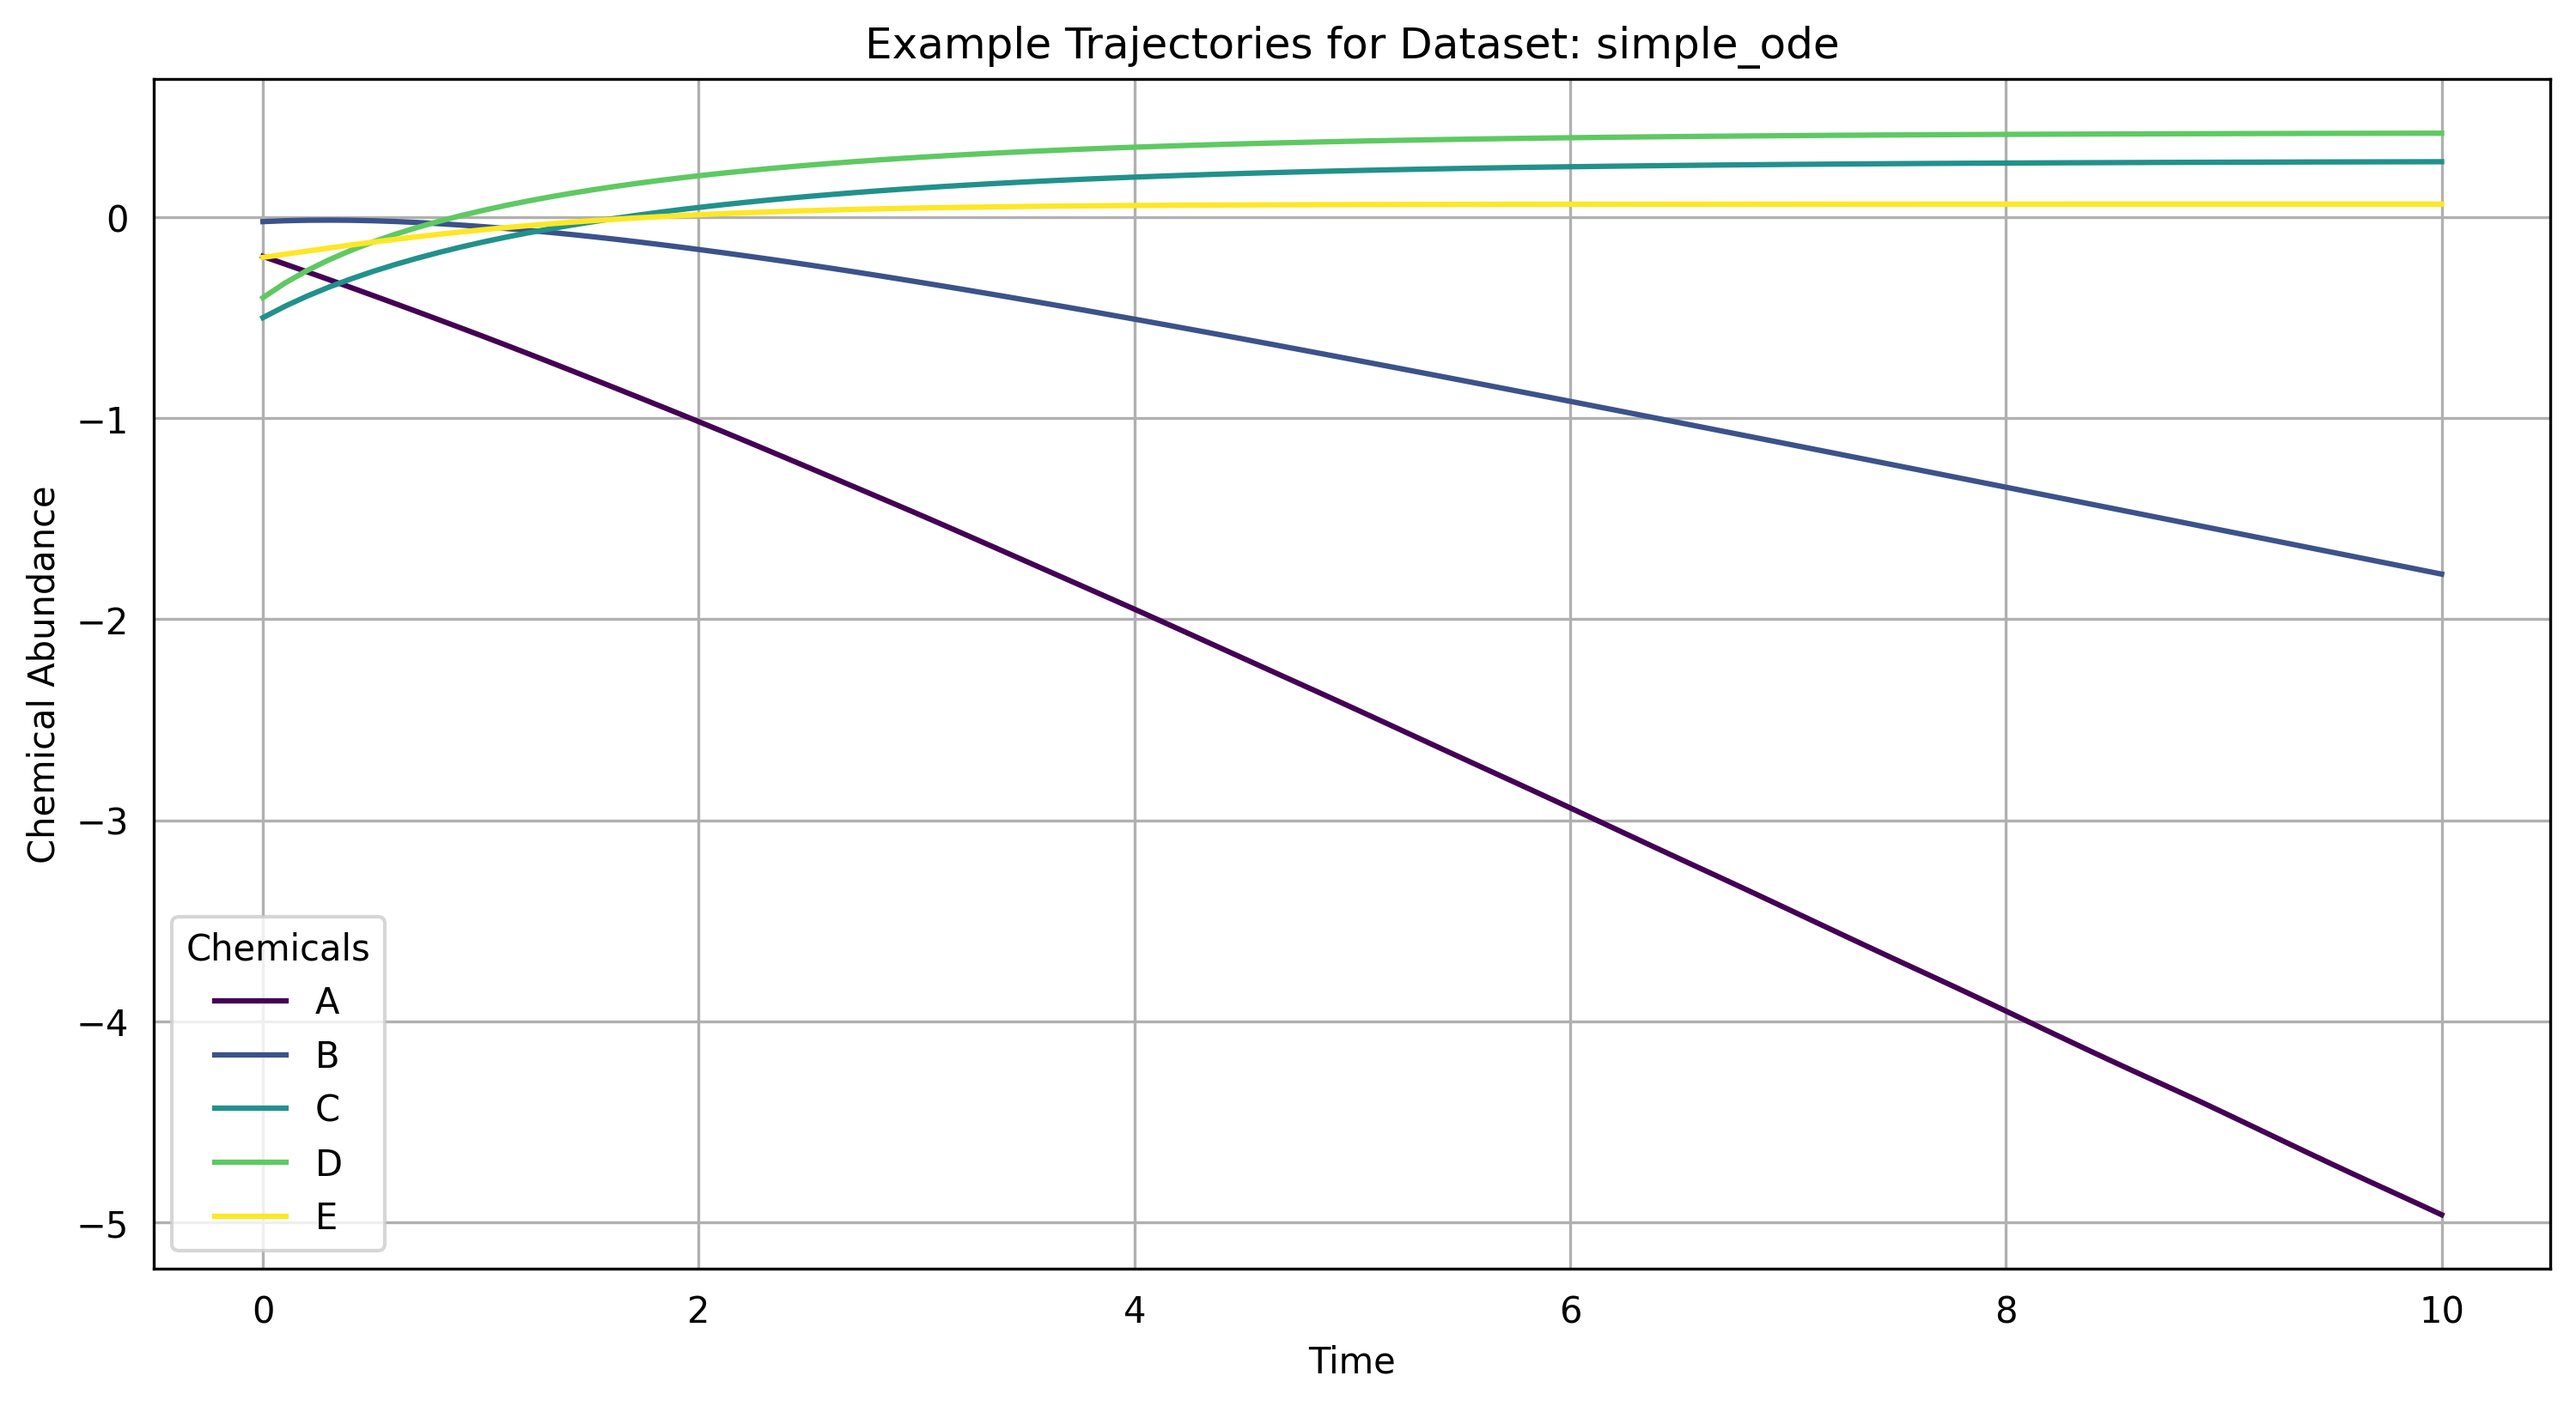
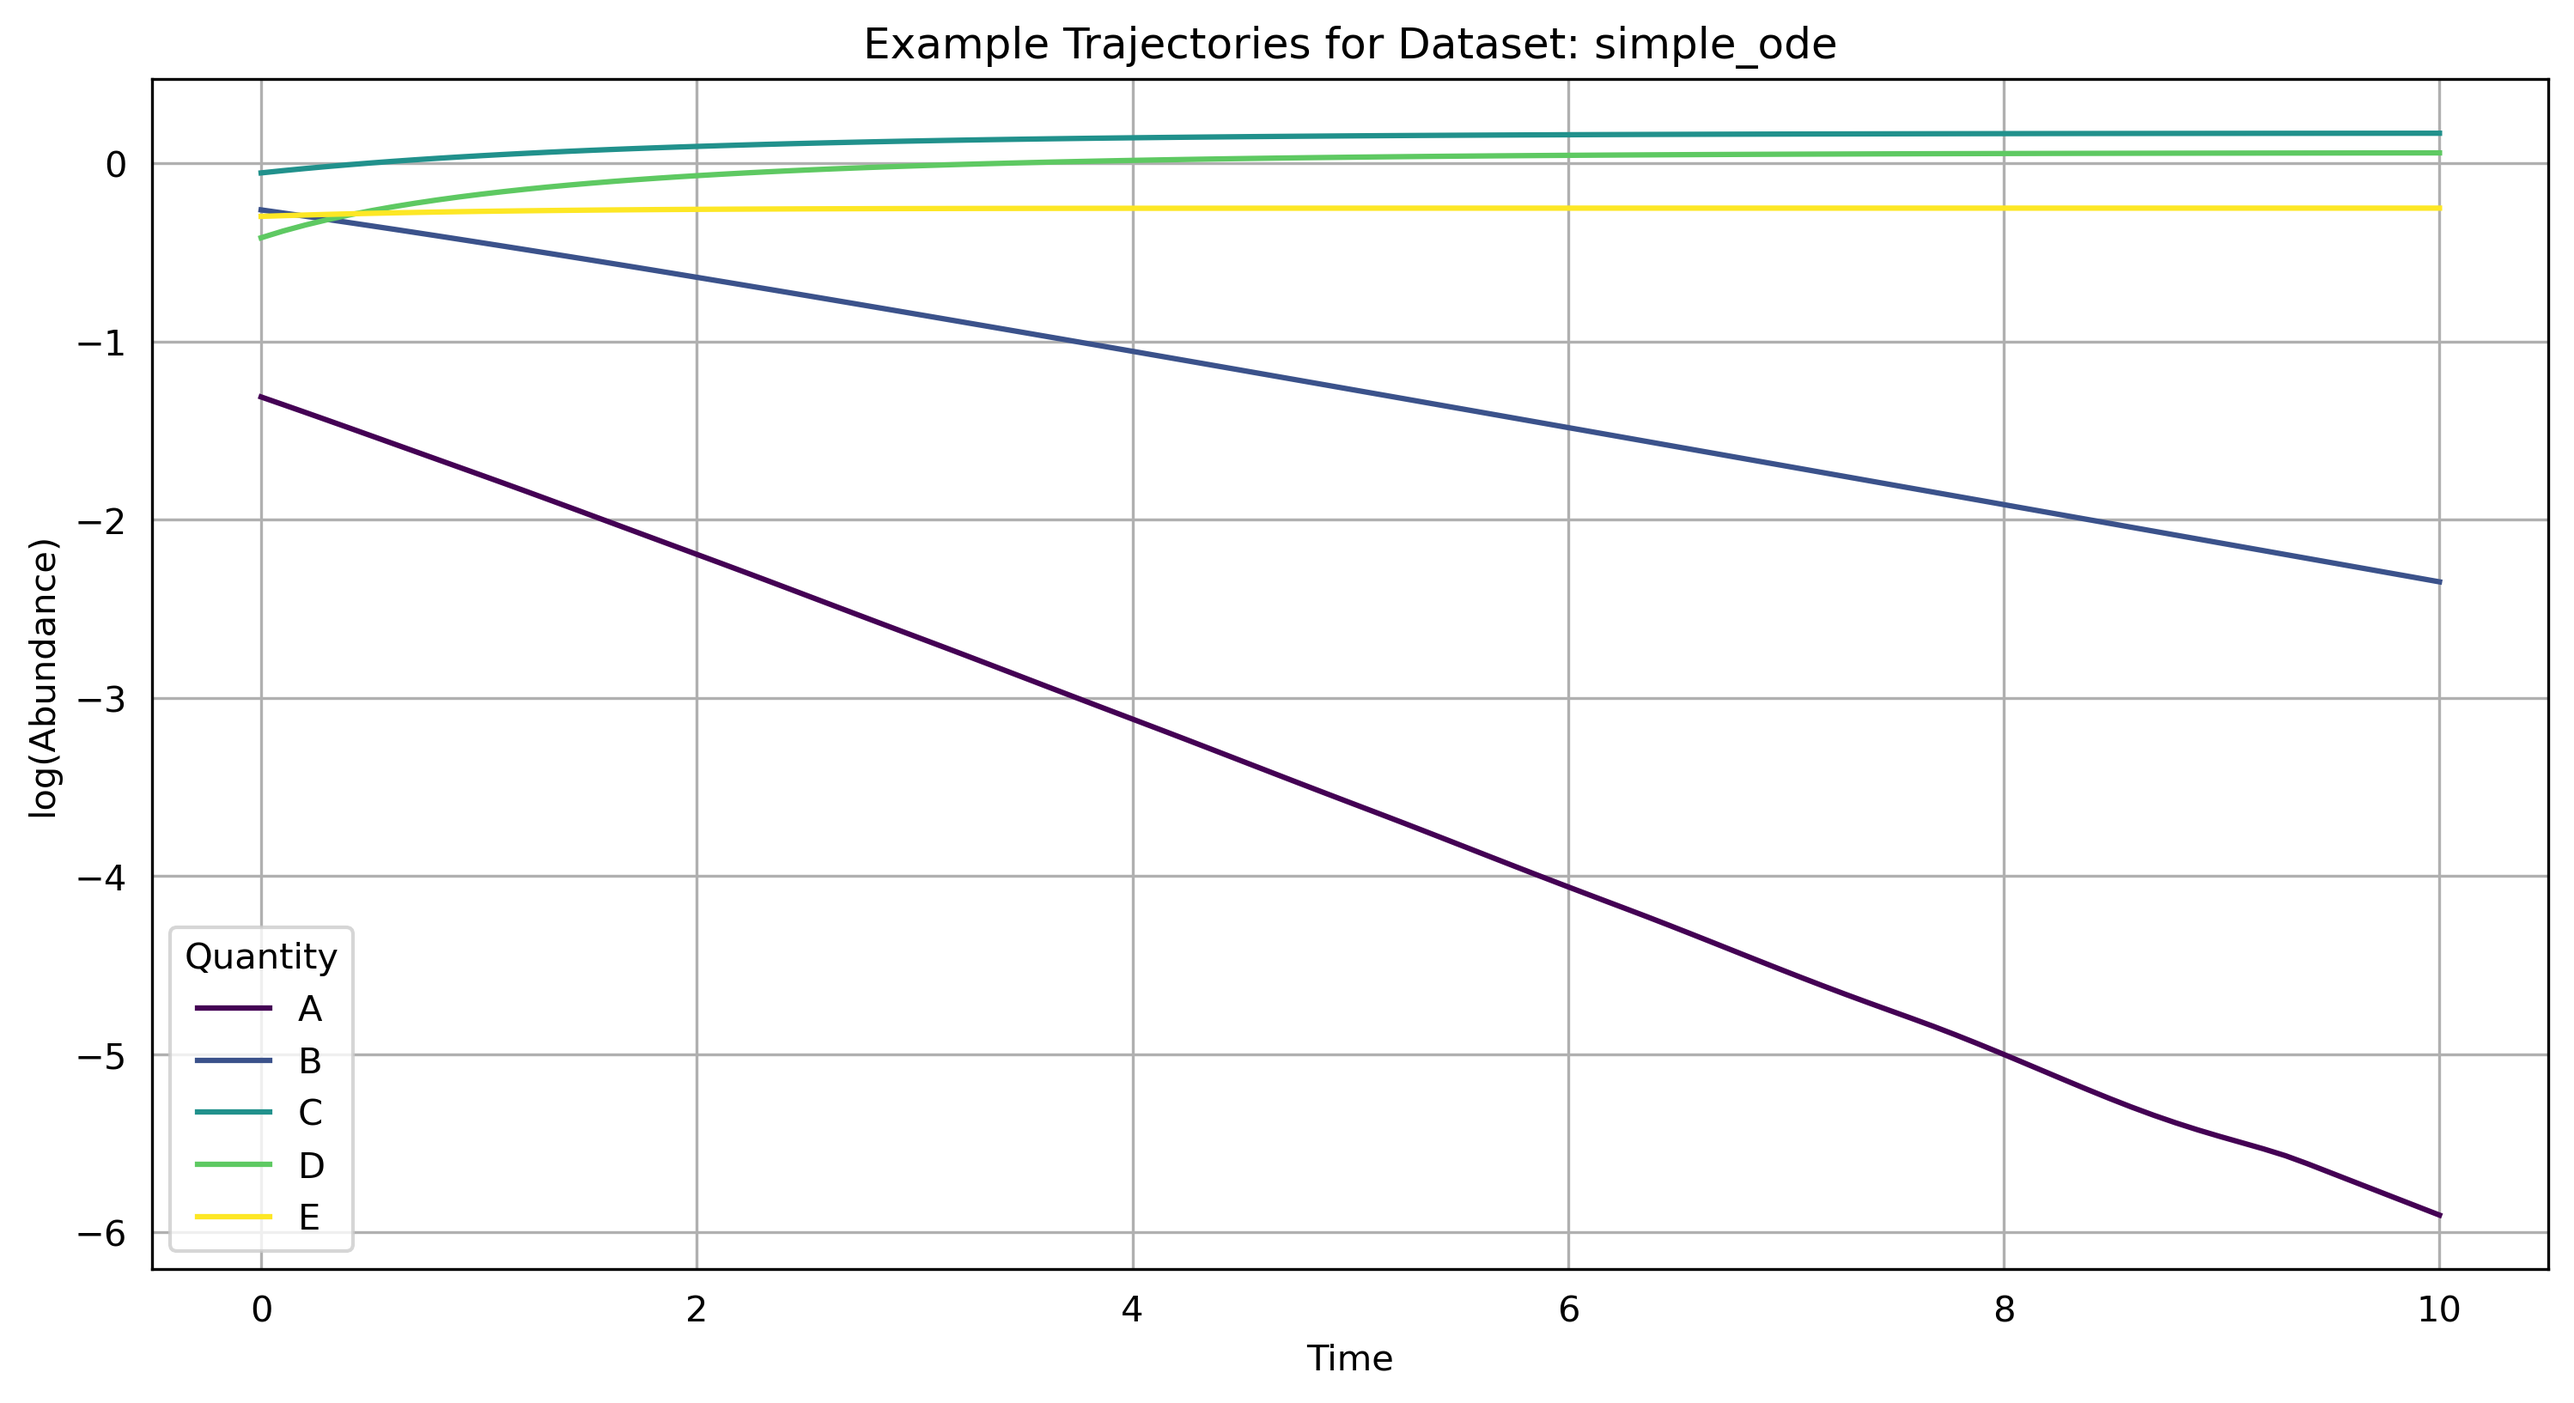
Add more dataset plots and correct the data sources

diff --git a/datasets/data_analysis/data_plots.py b/datasets/data_analysis/data_plots.py
@@ -1,4 +1,3 @@
-import os
 import sys
 
 import matplotlib.pyplot as plt
@@ -30,6 +29,8 @@ def plot_example_trajectories(
         num_chemicals (int, optional): Number of chemicals to plot. Default is 10.
         labels (list, optional): List of labels for the chemicals.
         save (bool, optional): Whether to save the plot as a file.
+        sample_idx (int, optional): Index of the sample to plot.
+        log (bool, optional): Whether to plot the data in log-space.
     """
     # Cap the number of chemicals at the number of available chemicals
     num_chemicals = min(data.shape[2], num_chemicals)
@@ -217,24 +218,36 @@ def plot_example_trajectories_paper(
 def plot_initial_conditions_distribution(
     dataset_name: str,
     train_data: np.ndarray,
+    test_data: np.ndarray,
     chemical_names: list[str] | None = None,
     max_chemicals: int = 10,
+    log: bool = True,
 ) -> None:
     """
-    Plot the distribution of initial conditions (t=0) for each chemical as a smoothed histogram plot.
+    Plot the distribution of initial conditions (t=0) for each chemical from both train and test datasets.
 
     Args:
         dataset_name (str): The name of the dataset (e.g., "osu2008").
-        train_data (np.ndarray): Dataset array of shape [num_samples, num_timesteps, num_chemicals].
+        train_data (np.ndarray): Training dataset array of shape [num_samples, num_timesteps, num_chemicals].
+        test_data (np.ndarray): Testing dataset array of shape [num_samples, num_timesteps, num_chemicals].
         chemical_names (list, optional): List of chemical names for labeling the lines.
         max_chemicals (int, optional): Maximum number of chemicals to plot. Default is 10.
+        log (bool, optional): Whether the data is in log-space and should be exponentiated (i.e., data = 10**data).
     """
-    # Extract initial conditions (t=0)
-    initial_conditions = train_data[:, 0, :]  # Extract t=0 (initial conditions)
+    # If data is in log space, exponentiate it
+    if log:
+        train_data = 10**train_data
+        test_data = 10**test_data
+
+    # Extract initial conditions (t=0) for both train and test datasets
+    train_initial_conditions = train_data[:, 0, :]  # Extract t=0 (initial conditions)
+    test_initial_conditions = test_data[:, 0, :]  # Extract t=0 (initial conditions)
 
     # Cap the number of chemicals to plot at 50
-    num_chemicals = min(max_chemicals, 50)
-    initial_conditions = initial_conditions[:, :num_chemicals]
+    num_chemicals = min(max_chemicals, 50, train_initial_conditions.shape[1])
+    train_initial_conditions = train_initial_conditions[:, :num_chemicals]
+    test_initial_conditions = test_initial_conditions[:, :num_chemicals]
+
     chemical_names = (
         chemical_names[:num_chemicals] if chemical_names is not None else None
     )
@@ -244,26 +257,42 @@ def plot_initial_conditions_distribution(
     num_plots = int(np.ceil(num_chemicals / chemicals_per_plot))
 
     # Initialize list to hold log-transformed non-zero initial conditions
-    log_conditions = []
-    zero_counts = 0
+    log_train_conditions = []
+    log_test_conditions = []
+    zero_counts_train = 0
+    zero_counts_test = 0
 
-    # Transform initial conditions to log-space and filter out zeros
+    # Transform data to log-space and filter out zeros
     for i in range(num_chemicals):
-        chemical_conditions = initial_conditions[:, i]
-        non_zero_chemical_conditions = chemical_conditions[chemical_conditions > 0]
-        log_conditions.append(np.log10(non_zero_chemical_conditions))
-        zero_counts += np.sum(chemical_conditions == 0)
+        train_chemical_conditions = train_initial_conditions[:, i]
+        test_chemical_conditions = test_initial_conditions[:, i]
+
+        non_zero_train_chemical_conditions = train_chemical_conditions[
+            train_chemical_conditions > 0
+        ]
+        non_zero_test_chemical_conditions = test_chemical_conditions[
+            test_chemical_conditions > 0
+        ]
+
+        log_train_conditions.append(np.log10(non_zero_train_chemical_conditions))
+        log_test_conditions.append(np.log10(non_zero_test_chemical_conditions))
+
+        zero_counts_train += np.sum(train_chemical_conditions == 0)
+        zero_counts_test += np.sum(test_chemical_conditions == 0)
 
     # Calculate the 1st and 99th percentiles in the log-space
-    min_percentiles = [
-        np.percentile(cond, 1) for cond in log_conditions if len(cond) > 0
-    ]
-    max_percentiles = [
-        np.percentile(cond, 99) for cond in log_conditions if len(cond) > 0
-    ]
+    # min_percentiles = [
+    #     np.percentile(cond, 1) for cond in log_train_conditions if len(cond) > 0
+    # ]
+    # max_percentiles = [
+    #     np.percentile(cond, 99) for cond in log_train_conditions if len(cond) > 0
+    # ]
 
-    global_min = np.min(min_percentiles)
-    global_max = np.max(max_percentiles)
+    min_values = [np.min(cond) for cond in log_train_conditions if len(cond) > 0]
+    max_values = [np.max(cond) for cond in log_train_conditions if len(cond) > 0]
+
+    global_min = np.min(min_values)
+    global_max = np.max(max_values)
 
     # Set up the x-axis range to nearest whole numbers in log-space
     x_min = np.floor(global_min)
@@ -287,16 +316,17 @@ def plot_initial_conditions_distribution(
         end_idx = min((plot_idx + 1) * chemicals_per_plot, num_chemicals)
 
         for i in range(start_idx, end_idx):
-            # Compute histogram in log-space
-            hist, bin_edges = np.histogram(log_conditions[i], bins=x_vals, density=True)
-
+            # Compute histogram for train dataset
+            train_hist, train_bin_edges = np.histogram(
+                log_train_conditions[i], bins=x_vals, density=True
+            )
             # Smooth the histogram with a Gaussian filter
-            smoothed_hist = gaussian_filter1d(hist, sigma=2)
+            train_smoothed_hist = gaussian_filter1d(train_hist, sigma=1)
 
-            # Plot the smoothed histogram
+            # Plot the smoothed histogram for the training data
             ax.plot(
-                10 ** bin_edges[:-1],
-                smoothed_hist,
+                10 ** train_bin_edges[:-1],  # Convert back to original scale
+                train_smoothed_hist,
                 label=(
                     chemical_names[i]
                     if chemical_names is not None and len(chemical_names) > i
@@ -305,24 +335,47 @@ def plot_initial_conditions_distribution(
                 color=colors[i % chemicals_per_plot],
             )
 
+            # Compute histogram for test dataset
+            test_hist, test_bin_edges = np.histogram(
+                log_test_conditions[i], bins=x_vals, density=True
+            )
+            # Smooth the histogram with a Gaussian filter
+            test_smoothed_hist = gaussian_filter1d(test_hist, sigma=1)
+
+            # Plot the smoothed histogram for the test data with dashed line
+            ax.plot(
+                10 ** test_bin_edges[:-1],  # Convert back to original scale
+                test_smoothed_hist,
+                "--",  # Dashed line for test data
+                color=colors[i % chemicals_per_plot],  # Same color as the train plot
+            )
+
         ax.set_yscale("linear")
         ax.set_ylabel("Density (PDF)")
+        ax.set_xlim(10**x_min, 10**x_max)
         if chemical_names is not None:
             ax.legend()
 
     plt.xscale("log")  # Log scale for initial conditions magnitudes
-    plt.xlim(10**x_min, 10**x_max)  # Set x-axis range based on log-space calculations
     plt.xlabel("Initial Condition Magnitude")
     fig.suptitle(
-        f"Initial Condition Distribution per Chemical (Dataset: {dataset_name}, {train_data.shape[0]} samples)"
+        f"Initial Condition Distribution per Chemical (Dataset: {dataset_name}, {train_data.shape[0]} train samples, {test_data.shape[0]} test samples)"
     )
 
     plt.tight_layout(rect=[0, 0, 1, 0.97])
 
-    # Save the plot to the dataset directory
-    save_dir = os.path.join("datasets", dataset_name)
-    os.makedirs(save_dir, exist_ok=True)
-    save_path = os.path.join(save_dir, "initial_conditions_per_quantity.png")
-    plt.savefig(save_path)
+    conf = {
+        "training_id": dataset_name.lower(),  # Use dataset_name as the training_id
+        "verbose": True,
+    }
+
+    save_plot(
+        plt,
+        "IC_distribution.png",
+        conf,
+        dpi=300,
+        base_dir="datasets",
+        increase_count=False,
+    )
 
     plt.close()

diff --git a/datasets/data_analysis/analyse_dataset.py b/datasets/data_analysis/analyse_dataset.py
@@ -8,19 +8,9 @@ project_root = os.path.abspath(os.path.join(current_path, "../../"))  # Go up tw
 
 # Add the 'codes' directory to the system path
 codes_path = os.path.join(project_root, "codes")
-print(f"Adding codes path: {codes_path}")
 sys.path.insert(1, codes_path)
-print("Current sys.path:", sys.path)
 
-# Check if the codes directory is accessible
-print("Contents of 'codes' directory:", os.listdir(codes_path))
-
-# codes_path = os.path.join(os.getcwd(), "codes")
-# print(codes_path)
-# sys.path.insert(1, codes_path)
-# print(sys.path)
-
-from codes import check_and_load_data
+from codes import check_and_load_data, download_data
 from datasets.data_analysis.data_plots import (
     plot_example_trajectories,
     plot_initial_conditions_distribution,
@@ -33,10 +23,11 @@ def main(args):
     """
     log = True
     # Load full data
+    download_data(args.dataset)
     (
         full_train_data,
-        full_test_data,
         full_val_data,
+        full_test_data,
         timesteps,
         _,
         data_params,
@@ -53,7 +44,7 @@ def main(args):
         args.dataset,
         full_train_data,
         timesteps,
-        num_chemicals=20,
+        num_chemicals=30,
         save=True,
         labels=labels,
         sample_idx=7,
@@ -62,22 +53,19 @@ def main(args):
 
     # Plot initial conditions distribution
     plot_initial_conditions_distribution(
-        args.dataset, full_train_data, chemical_names=labels, num_chemicals=50
+        args.dataset,
+        full_train_data,
+        full_test_data,
+        chemical_names=labels,
+        max_chemicals=50,
+        log=log,
     )
-
-    # plot_example_trajectories_paper(
-    #     args.dataset,
-    #     full_train_data,
-    #     timesteps,
-    #     save=True,
-    #     labels=labels,
-    # )
 
 
 if __name__ == "__main__":
     parser = ArgumentParser()
     parser.add_argument(
-        "--dataset", default="simple_ode", type=str, help="Name of the dataset."
+        "--dataset", default="osu2008", type=str, help="Name of the dataset."
     )
     args = parser.parse_args()
     main(args)
